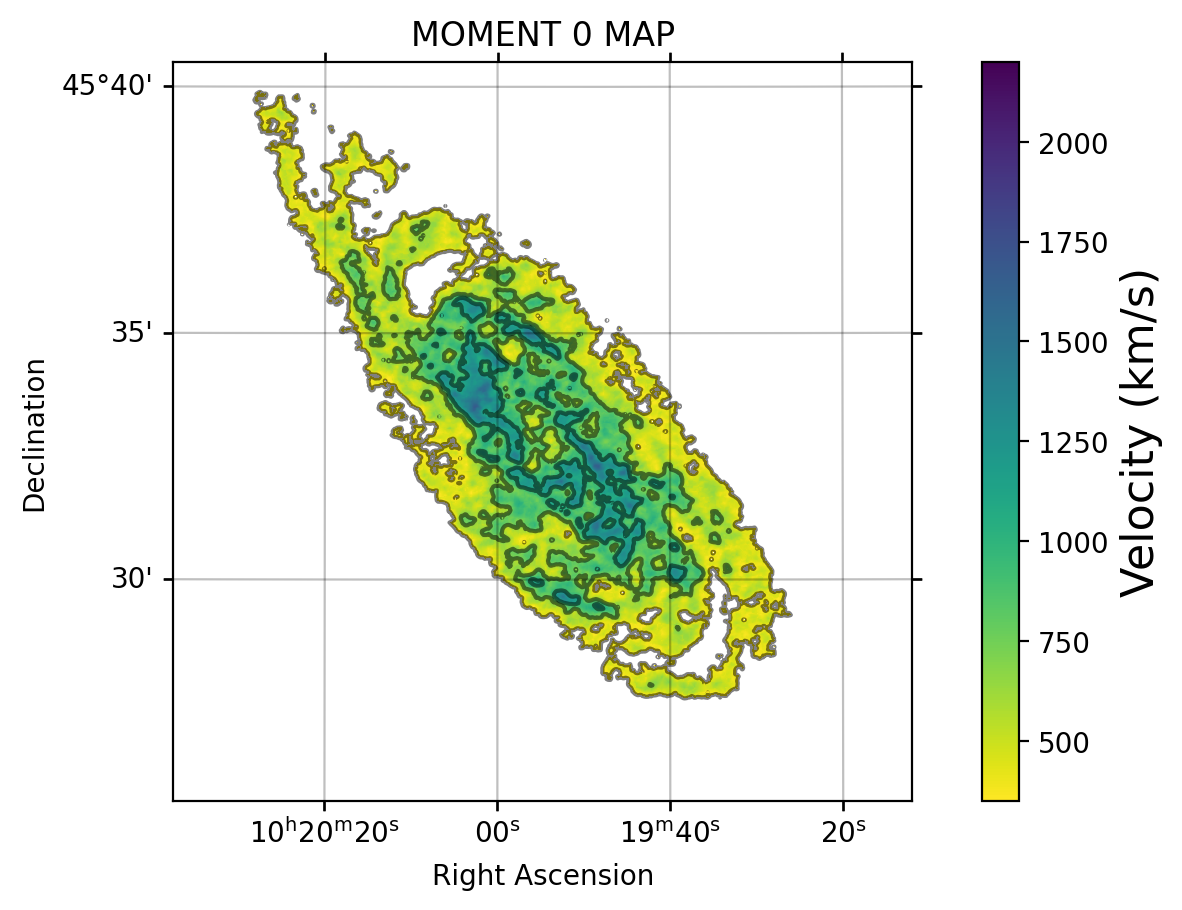
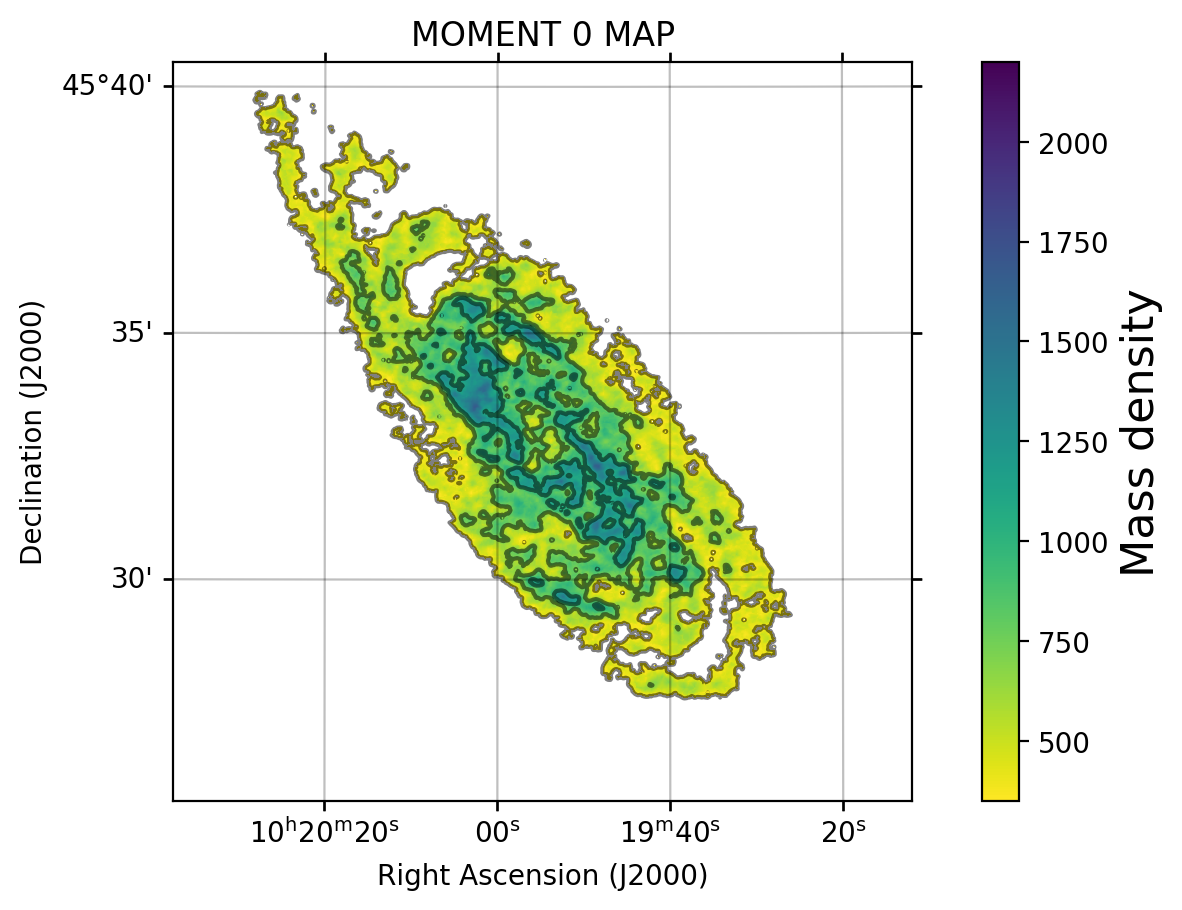
Modify Snakefile, sofia.par and plot_mom0.py

Changed region(s): [[0.0, 0.3385, 0.0609, 0.6154], [0.9442, 0.2769, 0.9746, 0.6769], [0.3046, 0.9538, 0.6091, 0.9846]]

diff --git a/workflow/scripts/plot_moment0.py b/workflow/scripts/plot_moment0.py
@@ -23,13 +23,6 @@ my_viridis = plt.colormaps.get_cmap('viridis_r').with_extremes(under='white')
 im = ax.imshow(hdu.data, cmap = my_viridis, vmin = mask_threshold, vmax=2.2e3, origin = 'lower')
 
 
-# Select region to plot
-central_pixel_x = 512
-central_pixel_y = 413
-deg_per_pixel = 0.000416666676800
-span = 0.25 / deg_per_pixel
-
-
 # Overlay contours
 plt.contour(
     hdu.data,
@@ -41,14 +34,21 @@ plt.contour(
 
 # Add a colorbar
 cbar = plt.colorbar(im, pad=.07)
-cbar.set_label('Velocity (km/s)', size=16)
+cbar.set_label('Mass density', size=16)
+
+
+# Select region to plot
+central_pixel_x = 512
+central_pixel_y = 413
+deg_per_pixel = 0.000416666676800
+span = 0.25 / deg_per_pixel
 
 
 # Set label
 ax.set( xlim = (central_pixel_x - span / 2, central_pixel_x + span / 2),
         ylim = (central_pixel_y - span / 2, central_pixel_y + span / 2),
-        xlabel = 'Right Ascension',
-        ylabel = 'Declination',
+        xlabel = 'Right Ascension (J2000)',
+        ylabel = 'Declination (J2000)',
         title = 'MOMENT 0 MAP')
 plt.grid(color='black', alpha=0.25, ls='solid')
 
